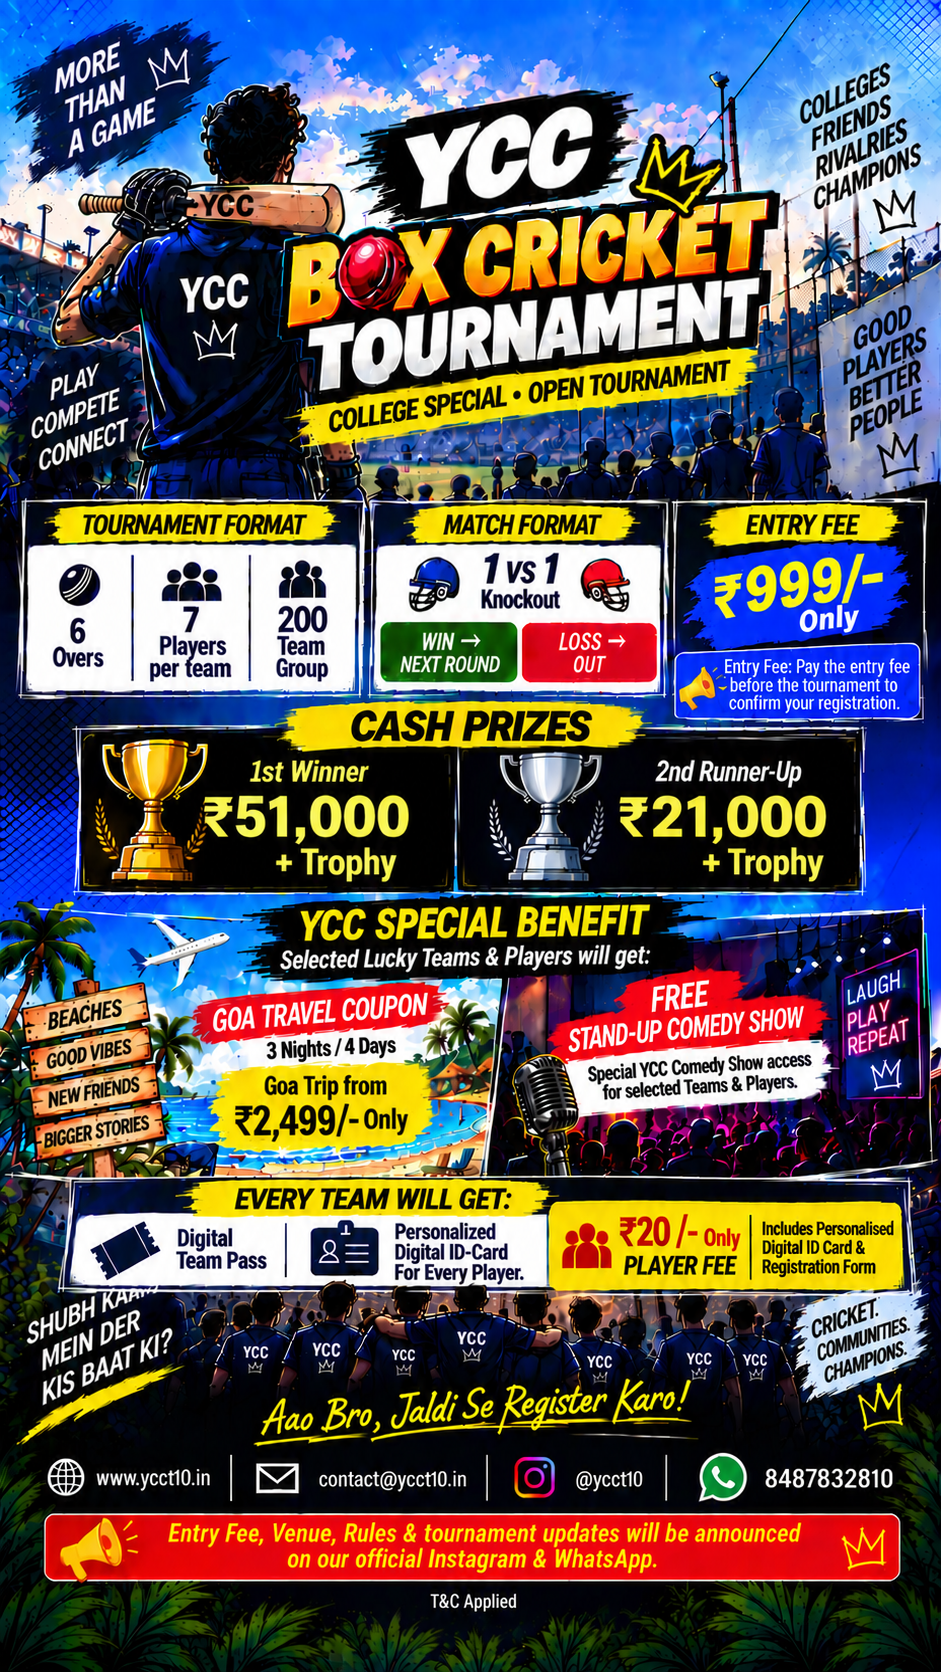
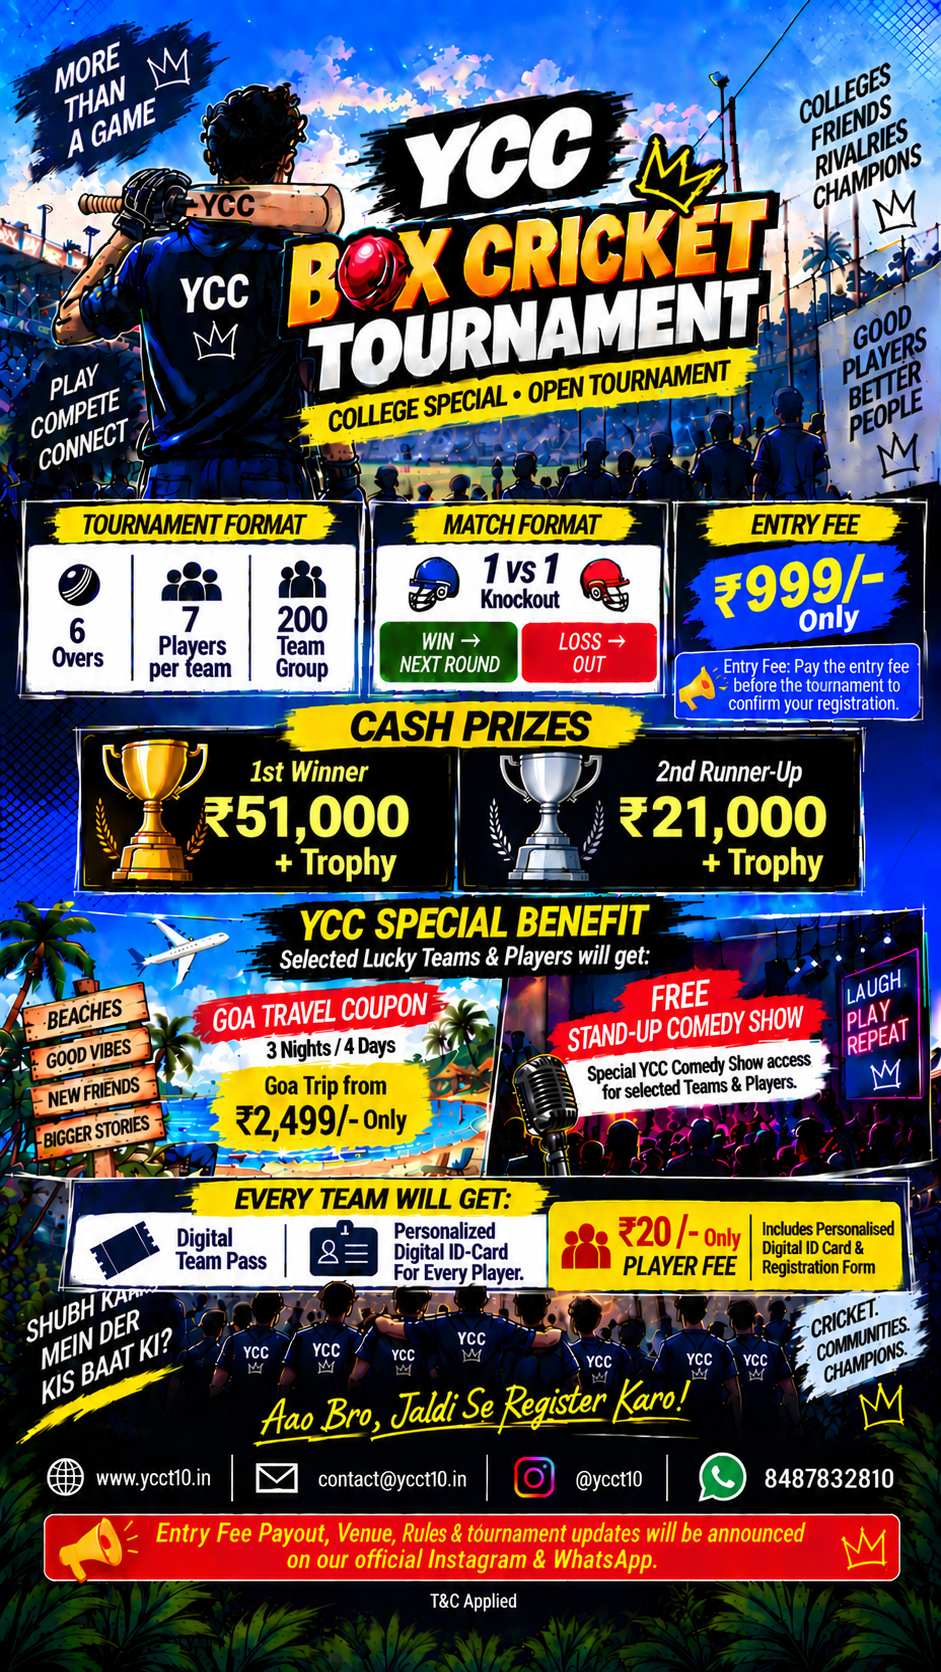
Box Cricket: replace per-person price split with flat ₹20 player fee, update poster-999
Claude-Session: https://claude.ai/code/session_017SBV5WrTPB1AcRyiuNr8JM

diff --git a/src/app/(public)/events/[slug]/page.tsx b/src/app/(public)/events/[slug]/page.tsx
@@ -453,15 +453,16 @@ export default async function EventDetailPage({
                         <span className="text-3xl sm:text-4xl font-bold text-slate-900 leading-none">{formatRupees(event.fee_paise)}</span>
                         <span className="text-slate-500 mb-0.5 text-sm sm:text-base">per team</span>
                       </div>
-                      {event.max_team_size ? (
-                        <div className="mb-4 inline-flex items-center gap-1.5 rounded-full bg-emerald-50 px-3 py-1.5 text-xs sm:text-sm font-semibold text-emerald-700">
-                          <Users className="w-3.5 h-3.5 sm:w-4 sm:h-4 shrink-0" />
-                          {formatRupees(
-                            Math.round(event.fee_paise / event.max_team_size / 100) * 100,
-                          )}{" "}
-                          per person
-                        </div>
-                      ) : null}
+                      {/* Separate from the ₹999 team fee — a flat ₹20/player
+                          charge covering each player's digital ID card and
+                          registration form (see the poster). Not stored on
+                          the event row since it isn't collected through the
+                          site's payment flow, so it's hardcoded here rather
+                          than derived from fee_paise. */}
+                      <div className="mb-4 inline-flex items-center gap-1.5 rounded-full bg-emerald-50 px-3 py-1.5 text-xs sm:text-sm font-semibold text-emerald-700">
+                        <Users className="w-3.5 h-3.5 sm:w-4 sm:h-4 shrink-0" />
+                        ₹20 player fee
+                      </div>
                       {event.gst_exempt ? (
                         <p className="text-xs sm:text-sm text-slate-500">No GST applicable</p>
                       ) : (
